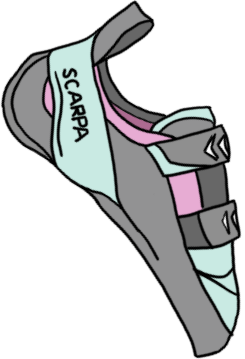
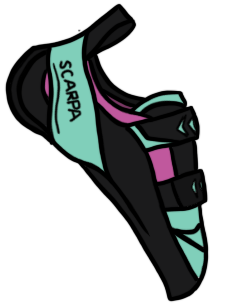
Desktop items outline + hover interaction

diff --git a/index.html b/index.html
@@ -37,16 +37,22 @@
                     <rect x="231.5" y="13" width="10" height="219" stroke="#9A7655" stroke-width="3"/>
                     <rect x="571.5" y="13" width="10" height="219" stroke="#9A7655" stroke-width="3"/>
                 </svg>
-                <div id="plant">
-                    <a href="https://egwen.github.io/des157a/final/finalproject/index.html"><img src="images/plant.png" alt="potted plant"></a>
+                <div class="desktop-item" id="plant">
+                    <a href="https://egwen.github.io/des157a/final/finalproject/index.html">
+                        <img src="images/plant-outline-light.png" alt="potted plant">
+                        <img src="images/plant.png" alt="potted plant">
+                    </a>
                 </div>
             </div>
         </header>
         <section id="desktop">
-            <div id="headphones">
-                <a href="https://egwen.github.io/des157a/studio1/index.html"><img src="images/headphones.png" alt="headphones playing music"></a>
+            <div class="desktop-item" id="headphones">
+                <a href="https://egwen.github.io/des157a/studio1/index.html">
+                    <img src="images/headphones-outline-light.png" alt="outline of headphones">
+                    <img src="images/headphones.png" alt="headphones playing music">
+                </a>
             </div>
-            <div id="books">
+            <div class="desktop-item" id="books">
                 <a href="https://egwen.github.io/des157a/journal/index.html">
                     <img src="images/books-outline-light.png" alt="outline of stack of books">
                     <img src="images/books.png" alt="stack of books">
@@ -144,8 +150,11 @@
                         </ul>
                     </nav>
                 </div>
-                <div id="climbing">
-                    <a href="https://egwen.github.io/des157a/studio2/index.html"><img src="images/climbing.png" alt="climbing shoes"></a>
+                <div class="desktop-item" id="climbing">
+                    <a href="https://egwen.github.io/des157a/studio2/index.html">
+                        <img src="images/climbing-outline-light.png" alt="outline of climbing shoes">
+                        <img src="images/climbing.png" alt="climbing shoes">
+                    </a>
                 </div>
             </section>
 

diff --git a/styles.css b/styles.css
@@ -58,35 +58,35 @@ h1, h2 {
 /* desktop items */
 #desktop {
     margin: 0 auto 0 auto;
-
     width: 800px;
     height: 60px;
     position: relative;
 }
 
-
-/* img {
-    filter: saturate(90%);
-} */
-.switch img:last-of-type {
+.switch img:last-of-type, .switch #climbing img:last-of-type {
     filter: grayscale(10%) brightness(70%);
-    transition: filter 0.5s ease;
 }
 
-#headphones, #plant, #books {
+.desktop-item {
     position: absolute;
 }
 #headphones {
-    bottom: -22px;
+    bottom: 114px;
+    left: 100px;
 }
 #plant {
-    bottom: 18px;
-    right: 185px;
+    bottom: 124px;
+    right: 250px;
 }
 #books {
     right: 150px;
-    bottom: 73px;
+    bottom: 74px;
 }
+#climbing {
+    bottom: 106px;
+    left: -19px;
+}
+
 
 #headphones img{
     height: 130px;
@@ -94,38 +94,36 @@ h1, h2 {
 #plant img {
     height: 100px;
 }
-#climbing img, #books img {
+#books img {
     height: 90px;
+}
+#climbing img {
+    height: 100px;
 }
 
 /* Hover transparency */
-#books a img:last-of-type {
+.desktop-item a img:last-of-type {
     opacity: 0;
 }
-#books:hover a img:last-of-type {
+.desktop-item:hover a img:last-of-type {
     opacity: 100%;
 }
+#climbing a img:last-of-type {
+    filter: saturate(70%);
+}
 
 
 
-#books a{
+
+
+.desktop-item a{
     position: relative;
-    /* right: 50px; */
 }
-#books img {
+.desktop-item img, .switch .desktop-item img {
     position: absolute;
-    transition: opacity 0.3s ease-in;
+    transition: opacity 0.3s ease-in, filter 0.5s ease;
 }
 
-#headphones {
-    left: 100px;
-}
-
-#climbing {
-    position: absolute;
-    bottom: 3px;
-    left: -18px;
-}
 
 
 
@@ -192,7 +190,7 @@ section .handle {
 }
 
 .drawer:hover .handle {
-    background-color: #47280B;
+    background-color: #47280b;
 }
 
 .drawer:hover h3 {
@@ -236,12 +234,6 @@ section nav ol, section nav ul {
     pointer-events: all;
 }
 
-#projects .drawer:hover nav {
-    padding-bottom: 15px;
-}
-
-
-
 h3, ol, ul {
    margin: 0;
    z-index: 1;
@@ -262,11 +254,6 @@ h3 {
 
 #projects .drawer:hover nav {
     pointer-events: all;
-}
-
-
-.drawer:hover #toolkit ~ nav {
-    padding-bottom: 50px;
 }
 
 ol,

diff --git a/script.js b/script.js
@@ -10,6 +10,10 @@
 
     // DES157A items
     const books = document.querySelector('#books img');
+    const headphones = document.querySelector('#headphones img');
+    const climbing = document.querySelector('#climbing img');
+    const plant = document.querySelector('#plant img');
+
 
     let mode = 'light';
 
@@ -37,10 +41,14 @@
     })
 
     function switchMode() {
-        // setTimeout(() =>{
-        //     books.src = `images/books-outline-${mode}.png`;
-        // }, 0)
+   
         books.src = `images/books-outline-${mode}.png`;
+        headphones.src = `images/headphones-outline-${mode}.png`;
+        climbing.src = `images/climbing-outline-${mode}.png`;
+        plant.src = `images/plant-outline-${mode}.png`;
+
+
+
 
 
         if (mode === 'dark') {
